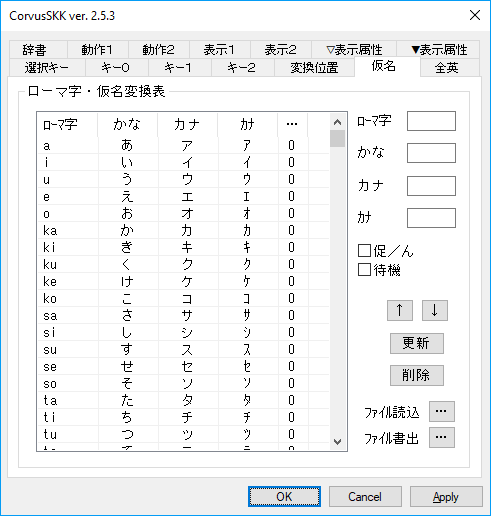
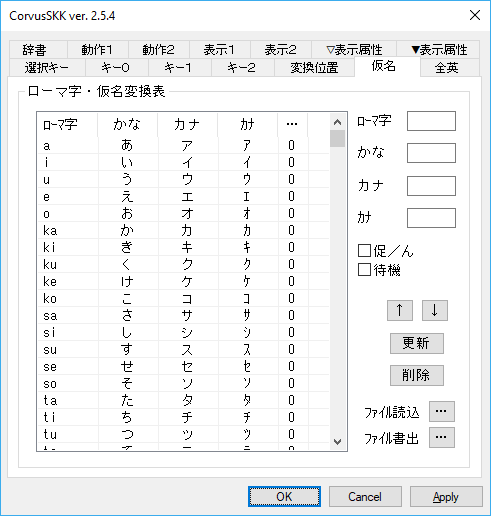
2.5.4
・オプション「ローマ字を表示する」にASCII/全英の選択を追加しました。
　・ローマ字プレフィックスの表示をいわゆる半角または全角に切り替えることができます。

・入力モードウィンドウの色設定で半角カタカナモードのデフォルト色を変更しました。

・オプション「入力モードを表示する」を変更したとき適用ボタンが有効にならないバグを修正しました。

diff --git a/common/version.h b/common/version.h
@@ -9,12 +9,12 @@
 #define TEXTSERVICE_DESC	TEXTSERVICE_NAME L"_DEBUG"
 #endif
 #define TEXTSERVICE_DIR		L"IMCRVSKK"
-#define TEXTSERVICE_VER		L"2.5.3"
+#define TEXTSERVICE_VER		L"2.5.4"
 
 //for resource
 #define RC_AUTHOR			"nathancorvussolis"
 #define RC_PRODUCT			"CorvusSKK"
-#define RC_VERSION			"2.5.3"
-#define RC_VERSION_D		2,5,2,0
+#define RC_VERSION			"2.5.4"
+#define RC_VERSION_D		2,5,4,0
 
 #endif
